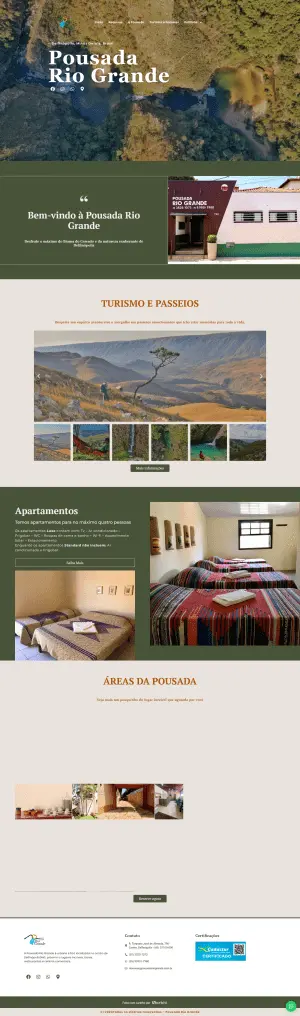
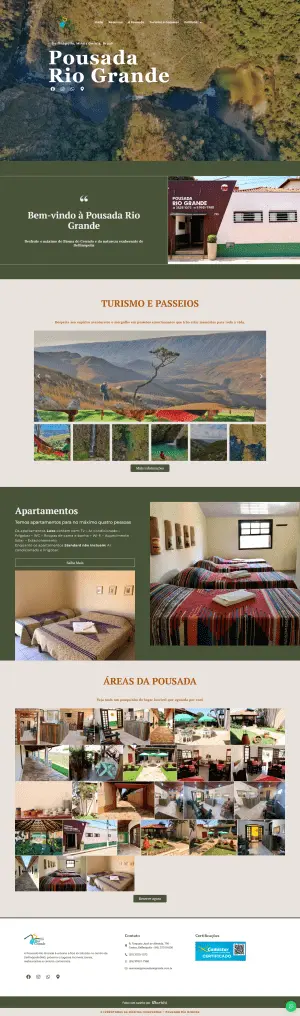
:recycle: Ajustando o hover do portfolio

Changed region(s): [[0.03, 0.6713, 0.96, 0.8848], [0.09, 0.3967, 0.9, 0.4577]]

diff --git a/index.html b/index.html
@@ -71,10 +71,10 @@
             <p class="tracinho">Últimos trabalhos realizados.</p>
             <ul class="lista_cards">
                 <li>
+                    <span class="scroll">
+                        <img src="./assets/img/touch.svg" alt="">
+                    </span>
                     <div class="card_img">
-                        <span class="scroll">
-                            <img src="./assets/img/touch.svg" alt="">
-                        </span>
                         <img src="./assets/img/vilaamale.webp" alt="">
                     </div>
                     <h4>Vila Amalê</h4>
@@ -84,10 +84,10 @@
                     </a>
                 </li>
                 <li>
+                    <span class="scroll">
+                        <img src="./assets/img/touch.svg" alt="">
+                    </span>
                     <div class="card_img">
-                        <span class="scroll">
-                            <img src="./assets/img/touch.svg" alt="">
-                        </span>
                         <img src="./assets/img/santorini.webp" alt="">
                     </div>
                     <h4>Santorini</h4>
@@ -97,10 +97,10 @@
                     </a>
                 </li>
                 <li>
+                    <span class="scroll">
+                        <img src="./assets/img/touch.svg" alt="">
+                    </span>
                     <div class="card_img">
-                        <span class="scroll">
-                            <img src="./assets/img/touch.svg" alt="">
-                        </span>
                         <img src="./assets/img/maximus.webp" alt="">
                     </div>
                     <h4>Maximus Segurança</h4>
@@ -110,10 +110,10 @@
                     </a>
                 </li>
                 <li>
+                    <span class="scroll">
+                        <img src="./assets/img/touch.svg" alt="">
+                    </span>
                     <div class="card_img">
-                        <span class="scroll">
-                            <img src="./assets/img/touch.svg" alt="">
-                        </span>
                         <img src="./assets/img/riogrande.webp" alt="">
                     </div>
                     <h4>Pousada Rio Grande</h4>
@@ -176,7 +176,9 @@
             </div>      
         </section>
         <footer class="rodape">
+
             &copy; Todos os direitos reservados - Horbiti 
+
             <div class="wpp">
                 <a href="https://wa.me/5521991537608"></a>
             </div>

diff --git a/assets/styles/components/_portfolio.scss b/assets/styles/components/_portfolio.scss
@@ -6,44 +6,46 @@
     .lista_cards{
         @include mixins.flex-j-a-g( center, center, 2rem);
         margin-top: 4rem;
+
+        li:hover .scroll {
+            display: none;
+        }
+        
         li{
-            max-width: 250px;
+            max-width: 250px;            
+            position: relative;
+
+            .scroll{   
+                place-items: center;                 
+                width: 250px;
+                height: 200px;
+                display: grid;
+                background-color: #00000052;
+                position: absolute;
+                top: 0;
+                left: 0;   
+                
+                img{
+                    width: 50px;
+                    animation: saltar 2s linear infinite;
+                }
+                @keyframes saltar {
+                    0%{transform: translateY(0px);}
+                    50%{transform: translateY(-20px);}
+                    100%{transform: translateY(0px);}
+                }
+            }
 
             .card_img{
                 height: 200px;
                 overflow: hidden;
                 overflow-y: scroll;
-                position: relative;
                 cursor: pointer;
                 
                 img{
                     width: 100%;    
                 }
 
-                .scroll{   
-                    place-items: center;                 
-                    width: 250px;
-                    height: 200px;
-                    display: grid;
-                    background-color: #00000052;
-                    position: absolute;
-                    top: 0;
-                    left: 0;   
-                    
-                    img{
-                        width: 50px;
-                        animation: saltar 2s linear infinite;
-                    }
-                    @keyframes saltar {
-                        0%{transform: translateY(0px);}
-                        50%{transform: translateY(-20px);}
-                        100%{transform: translateY(0px);}
-                    }
-
-                    &:hover{
-                        opacity: 0;
-                    }
-                }
 
                 &::-webkit-scrollbar{
                     width: 5px;

diff --git a/assets/styles/styles.css b/assets/styles/styles.css
@@ -329,20 +329,14 @@ button:hover {
   align-items: center;
   margin-top: 4rem;
 }
+.portfolio .lista_cards li:hover .scroll {
+  display: none;
+}
 .portfolio .lista_cards li {
   max-width: 250px;
-}
-.portfolio .lista_cards li .card_img {
-  height: 200px;
-  overflow: hidden;
-  overflow-y: scroll;
   position: relative;
-  cursor: pointer;
 }
-.portfolio .lista_cards li .card_img img {
-  width: 100%;
-}
-.portfolio .lista_cards li .card_img .scroll {
+.portfolio .lista_cards li .scroll {
   place-items: center;
   width: 250px;
   height: 200px;
@@ -352,7 +346,7 @@ button:hover {
   top: 0;
   left: 0;
 }
-.portfolio .lista_cards li .card_img .scroll img {
+.portfolio .lista_cards li .scroll img {
   width: 50px;
   animation: saltar 2s linear infinite;
 }
@@ -367,8 +361,14 @@ button:hover {
     transform: translateY(0px);
   }
 }
-.portfolio .lista_cards li .card_img .scroll:hover {
-  opacity: 0;
+.portfolio .lista_cards li .card_img {
+  height: 200px;
+  overflow: hidden;
+  overflow-y: scroll;
+  cursor: pointer;
+}
+.portfolio .lista_cards li .card_img img {
+  width: 100%;
 }
 .portfolio .lista_cards li .card_img::-webkit-scrollbar {
   width: 5px;
